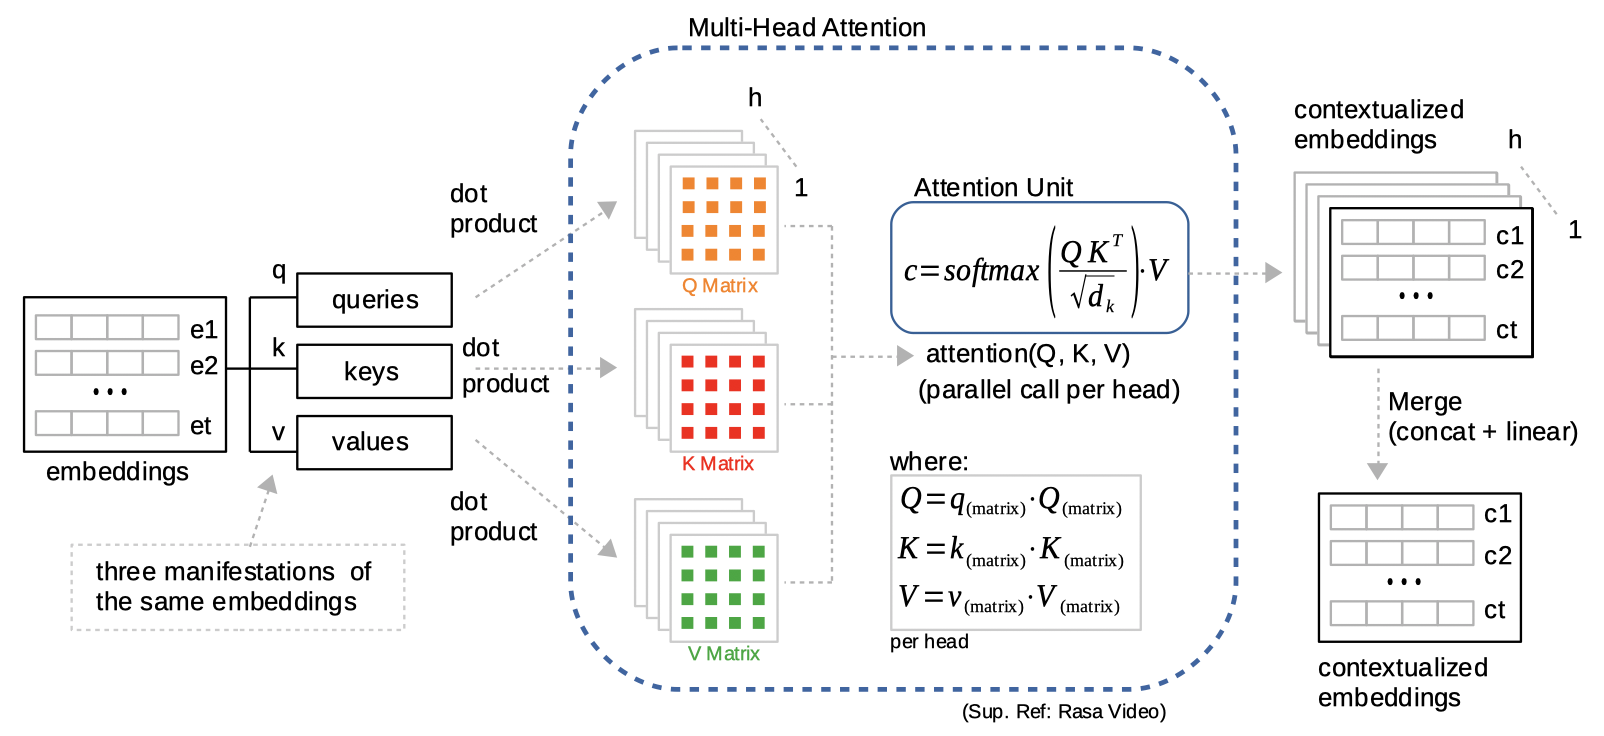
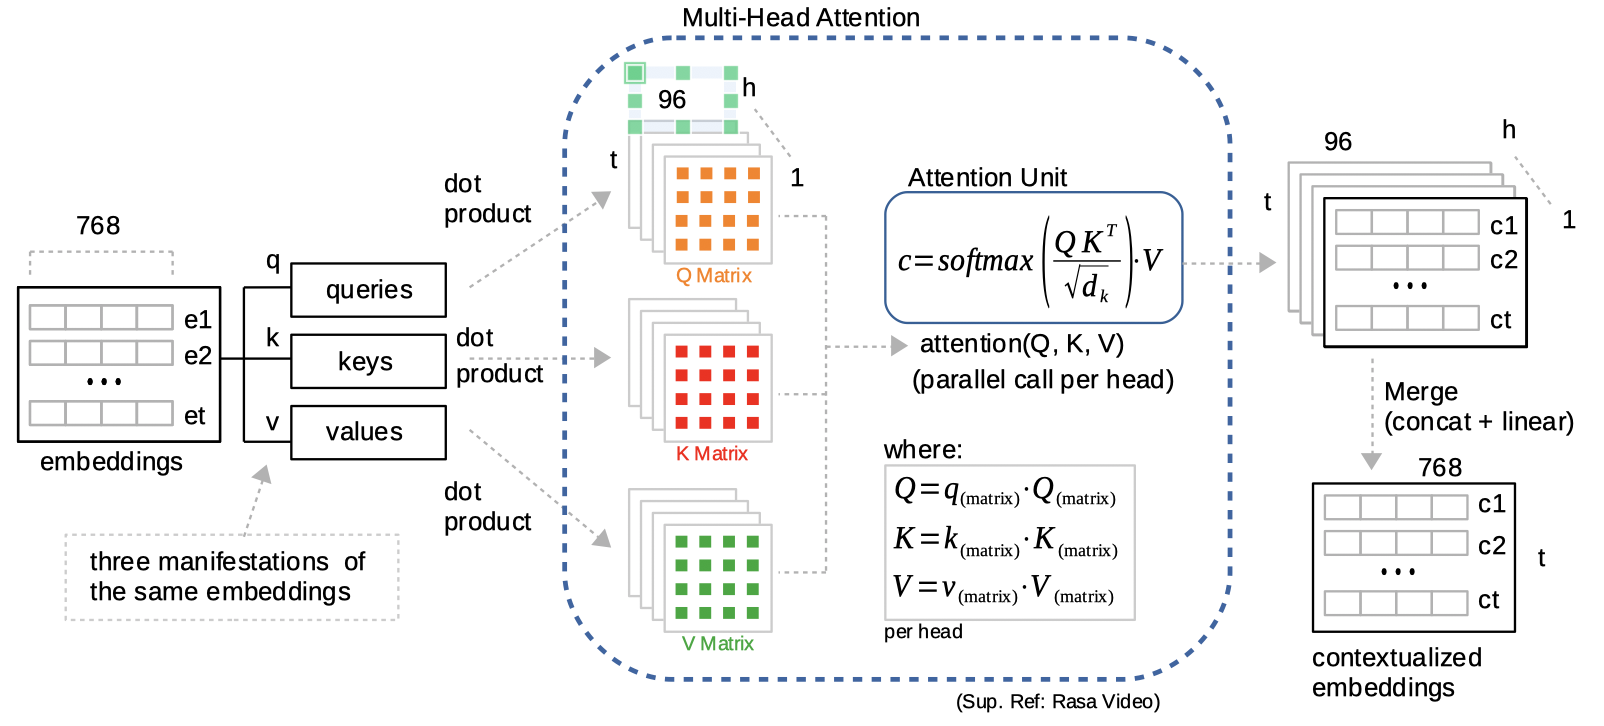
self attention

diff --git a/13.5-transformer-neural-network-tnn.html b/13.5-transformer-neural-network-tnn.html
@@ -913,116 +913,127 @@ Figure 13.21: Attention with Weights
 <p>Based on <strong>Retrieval Information</strong> theory, particularly in <strong>search engine</strong> systems, we supply a query keyword to the engine and expect the engine to respond with a list of relevant documents. In the context of <strong>Self-Attention</strong>, we supply a query keyword in search for <strong>contextual words</strong> in a list of words called <strong>keys</strong>. The idea is to know which of these keys will pay more <strong>attention</strong> to the query. For a better intuition, let us step through the operations.</p>
 <p><strong>First</strong>, for illustration, let us cut the sentence above to only the subject line, <strong>I travel the world</strong>, giving us only about four tokens (or word embeddings). Assume for a moment that our embeddings have five dimensions (dk=5). For now, let us randomly assign some continuous numbers.</p>
 
-<div class="sourceCode" id="cb2141"><pre class="sourceCode r"><code class="sourceCode r"><a class="sourceLine" id="cb2141-1" data-line-number="1"><span class="kw">options</span>(<span class="dt">digits=</span><span class="dv">8</span>)</a>
-<a class="sourceLine" id="cb2141-2" data-line-number="2"><span class="kw">set.seed</span>(<span class="dv">12</span>)</a>
-<a class="sourceLine" id="cb2141-3" data-line-number="3">t    =<span class="st"> </span><span class="dv">4</span>  <span class="co"># number of tokens (embedding)</span></a>
-<a class="sourceLine" id="cb2141-4" data-line-number="4">dk   =<span class="st"> </span><span class="dv">5</span>  <span class="co"># dimension per token</span></a>
-<a class="sourceLine" id="cb2141-5" data-line-number="5">random &lt;-<span class="st"> </span><span class="cf">function</span>(dk) { <span class="kw">round</span>(<span class="kw">runif</span>(<span class="dt">n=</span>dk, <span class="dt">min=</span><span class="fl">0.100</span>, <span class="dt">max=</span><span class="fl">0.900</span>), <span class="dv">3</span>)   }</a>
-<a class="sourceLine" id="cb2141-6" data-line-number="6"><span class="co"># assume hidden states produced by RNN for each word</span></a>
-<a class="sourceLine" id="cb2141-7" data-line-number="7">h1   =<span class="st"> </span><span class="kw">random</span>(dk)  <span class="co"># I       </span></a>
-<a class="sourceLine" id="cb2141-8" data-line-number="8">h2   =<span class="st"> </span><span class="kw">random</span>(dk)  <span class="co"># travel   </span></a>
-<a class="sourceLine" id="cb2141-9" data-line-number="9">h3   =<span class="st"> </span><span class="kw">random</span>(dk)  <span class="co"># the</span></a>
-<a class="sourceLine" id="cb2141-10" data-line-number="10">h4   =<span class="st"> </span><span class="kw">random</span>(dk)  <span class="co"># world </span></a>
-<a class="sourceLine" id="cb2141-11" data-line-number="11">(<span class="dt">h    =</span> <span class="kw">rbind</span>(h1, h2, h3, h4))</a></code></pre></div>
-<pre><code>##     [,1]  [,2]  [,3]  [,4]  [,5]
+<div class="sourceCode" id="cb57"><pre class="sourceCode r"><code class="sourceCode r"><a class="sourceLine" id="cb57-1" data-line-number="1"><span class="kw">options</span>(<span class="dt">digits=</span><span class="dv">8</span>)</a>
+<a class="sourceLine" id="cb57-2" data-line-number="2"><span class="kw">set.seed</span>(<span class="dv">12</span>)</a>
+<a class="sourceLine" id="cb57-3" data-line-number="3">t    =<span class="st"> </span><span class="dv">4</span>  <span class="co"># number of tokens in a sequence</span></a>
+<a class="sourceLine" id="cb57-4" data-line-number="4">dk   =<span class="st"> </span><span class="dv">5</span>  <span class="co"># embedding size</span></a>
+<a class="sourceLine" id="cb57-5" data-line-number="5">random &lt;-<span class="st"> </span><span class="cf">function</span>(dk) { <span class="kw">round</span>(<span class="kw">runif</span>(<span class="dt">n=</span>dk, <span class="dt">min=</span><span class="fl">0.100</span>, <span class="dt">max=</span><span class="fl">0.900</span>), <span class="dv">3</span>)   }</a>
+<a class="sourceLine" id="cb57-6" data-line-number="6"><span class="co"># assume hidden states produced by RNN for each word (tokens)</span></a>
+<a class="sourceLine" id="cb57-7" data-line-number="7">h1   =<span class="st"> </span><span class="kw">random</span>(dk)  <span class="co"># I       </span></a>
+<a class="sourceLine" id="cb57-8" data-line-number="8">h2   =<span class="st"> </span><span class="kw">random</span>(dk)  <span class="co"># travel   </span></a>
+<a class="sourceLine" id="cb57-9" data-line-number="9">h3   =<span class="st"> </span><span class="kw">random</span>(dk)  <span class="co"># the</span></a>
+<a class="sourceLine" id="cb57-10" data-line-number="10">h4   =<span class="st"> </span><span class="kw">random</span>(dk)  <span class="co"># world </span></a>
+<a class="sourceLine" id="cb57-11" data-line-number="11">h    =<span class="st"> </span><span class="kw">rbind</span>(h1, h2, h3, h4); <span class="kw">colnames</span>(h) =<span class="st"> </span><span class="kw">paste0</span>(<span class="st">&quot;e&quot;</span>, <span class="kw">seq</span>(<span class="dv">1</span>,dk)); h</a></code></pre></div>
+<pre><code>##       e1    e2    e3    e4    e5
 ## h1 0.155 0.754 0.854 0.316 0.235
 ## h2 0.127 0.243 0.613 0.118 0.107
 ## h3 0.414 0.751 0.401 0.405 0.312
 ## h4 0.451 0.466 0.533 0.633 0.190</code></pre>
 
-<p><strong>Second</strong>, let us query the keys to obtain scores. Mathematically, we have the following expression, including the normalizer:</p>
-<p><span class="math display" id="eq:equate1150087">\[\begin{align}
-\text{scaled scores} = \frac{(\text{query})\ (\text{keys}^\text{T})} {\sqrt{d_k}}  \tag{13.90} 
+<p><strong>Second</strong>, using <strong>learnable weights</strong>, we first initialize three weight matrices (<strong>Q</strong>, <strong>K</strong>, <strong>V</strong>) using a random uniform distribution. We assume a dimension of (dk x ws) where ws is the weight size. So then, we have the following weight matrices.</p>
+
+<div class="sourceCode" id="cb59"><pre class="sourceCode r"><code class="sourceCode r"><a class="sourceLine" id="cb59-1" data-line-number="1">ws =<span class="st"> </span><span class="dv">3</span> <span class="co"># weight size</span></a>
+<a class="sourceLine" id="cb59-2" data-line-number="2">Q =<span class="st"> </span><span class="kw">matrix</span>(<span class="kw">runif</span>(<span class="dt">n=</span>dk <span class="op">*</span><span class="st"> </span>ws, <span class="dt">min=</span><span class="op">-</span><span class="fl">0.5</span>, <span class="dt">max=</span><span class="fl">0.5</span>), <span class="dt">nrow=</span>dk)</a>
+<a class="sourceLine" id="cb59-3" data-line-number="3">K =<span class="st"> </span><span class="kw">matrix</span>(<span class="kw">runif</span>(<span class="dt">n=</span>dk <span class="op">*</span><span class="st"> </span>ws, <span class="dt">min=</span><span class="op">-</span><span class="fl">0.5</span>, <span class="dt">max=</span><span class="fl">0.5</span>), <span class="dt">nrow=</span>dk)</a>
+<a class="sourceLine" id="cb59-4" data-line-number="4">V =<span class="st"> </span><span class="kw">matrix</span>(<span class="kw">runif</span>(<span class="dt">n=</span>dk <span class="op">*</span><span class="st"> </span>ws, <span class="dt">min=</span><span class="op">-</span><span class="fl">0.5</span>, <span class="dt">max=</span><span class="fl">0.5</span>), <span class="dt">nrow=</span>dk)</a>
+<a class="sourceLine" id="cb59-5" data-line-number="5"><span class="kw">colnames</span>(Q) =<span class="st"> </span><span class="kw">paste0</span>(<span class="st">&quot;w&quot;</span>, <span class="kw">seq</span>(<span class="dv">1</span>,<span class="kw">ncol</span>(Q)))</a>
+<a class="sourceLine" id="cb59-6" data-line-number="6"><span class="kw">rownames</span>(Q) =<span class="st"> </span><span class="kw">paste0</span>(<span class="st">&quot;e&quot;</span>, <span class="kw">seq</span>(<span class="dv">1</span>,<span class="kw">nrow</span>(Q)))</a>
+<a class="sourceLine" id="cb59-7" data-line-number="7">Q <span class="co"># example output of weight Q</span></a></code></pre></div>
+<pre><code>##             w1            w2          w3
+## e1 -0.28163283 -0.2320564070 -0.25911677
+## e2  0.28783635  0.0047679518  0.39326490
+## e3 -0.40214696 -0.3114130732  0.38275639
+## e4  0.20983047 -0.0605706749  0.31406325
+## e5 -0.28217696  0.1698192959  0.13326461</code></pre>
+
+
+<p><strong>Third</strong>, we then apply linear transformation using the weight matrices. Here, we perform <strong>matmul</strong> like so:</p>
+
+<div class="sourceCode" id="cb61"><pre class="sourceCode r"><code class="sourceCode r"><a class="sourceLine" id="cb61-1" data-line-number="1">q =<span class="st"> </span>queries =<span class="st"> </span>h <span class="op">%*%</span><span class="st"> </span>Q</a>
+<a class="sourceLine" id="cb61-2" data-line-number="2">k =<span class="st"> </span>keys    =<span class="st"> </span>h <span class="op">%*%</span><span class="st"> </span>K</a>
+<a class="sourceLine" id="cb61-3" data-line-number="3">v =<span class="st"> </span>values  =<span class="st"> </span>h <span class="op">%*%</span><span class="st"> </span>V</a>
+<a class="sourceLine" id="cb61-4" data-line-number="4">q  <span class="co"># example output of q</span></a></code></pre></div>
+<pre><code>##              w1          w2         w3
+## h1 -0.170063145 -0.27755327 0.71379376
+## h2 -0.217772163 -0.20818544 0.34860398
+## h3 -0.064749699 -0.18891477 0.51032708
+## h4 -0.128019936 -0.27449431 0.49453125</code></pre>
+
+<p><strong>Fourth</strong>, let us query the keys to obtain the scores. Mathematically, we have the following expression, including the normalizer:</p>
+<p><span class="math display">\[\begin{align}
+\text{scaled scores} = \frac{(\text{query})\ (\text{keys}^\text{T})} {\sqrt{d_k}} \tag{13.90}
 \end{align}\]</span></p>
 
-<div class="sourceCode" id="cb2143"><pre class="sourceCode r"><code class="sourceCode r"><a class="sourceLine" id="cb2143-1" data-line-number="1">query  =<span class="st"> </span>keys =<span class="st"> </span>h</a>
-<a class="sourceLine" id="cb2143-2" data-line-number="2">scores =<span class="st"> </span>(query) <span class="op">%*%</span><span class="st"> </span><span class="kw">t</span>(keys)</a>
-<a class="sourceLine" id="cb2143-3" data-line-number="3">scaled.scores =<span class="st"> </span><span class="kw">round</span>(scores <span class="op">/</span><span class="st"> </span><span class="kw">sqrt</span>(dk), <span class="dv">3</span>)</a>
-<a class="sourceLine" id="cb2143-4" data-line-number="4"><span class="kw">colnames</span>(scaled.scores) =<span class="st"> </span><span class="kw">paste0</span>(<span class="st">&quot;q&quot;</span>, <span class="kw">seq</span>(<span class="dv">1</span>,t))</a>
-<a class="sourceLine" id="cb2143-5" data-line-number="5"><span class="kw">rownames</span>(scaled.scores) =<span class="st"> </span><span class="kw">paste0</span>(<span class="st">&quot;s&quot;</span>, <span class="kw">seq</span>(<span class="dv">1</span>,t))</a>
-<a class="sourceLine" id="cb2143-6" data-line-number="6">scaled.scores</a></code></pre></div>
-<pre><code>##       q1    q2    q3    q4
-## s1 0.661 0.353 0.525 0.501
-## s2 0.353 0.213 0.251 0.265
-## s3 0.525 0.251 0.518 0.477
-## s4 0.501 0.265 0.477 0.510</code></pre>
+<div class="sourceCode" id="cb63"><pre class="sourceCode r"><code class="sourceCode r"><a class="sourceLine" id="cb63-1" data-line-number="1">scaled.scores =<span class="st">  </span>queries <span class="op">%*%</span><span class="st"> </span><span class="kw">t</span>(keys) <span class="op">/</span><span class="st"> </span><span class="kw">sqrt</span>(dk) </a>
+<a class="sourceLine" id="cb63-2" data-line-number="2"><span class="kw">colnames</span>(scaled.scores) =<span class="st"> </span><span class="kw">paste0</span>(<span class="st">&quot;k&quot;</span>, <span class="kw">seq</span>(<span class="dv">1</span>,t))</a>
+<a class="sourceLine" id="cb63-3" data-line-number="3"><span class="kw">rownames</span>(scaled.scores) =<span class="st"> </span><span class="kw">paste0</span>(<span class="st">&quot;q&quot;</span>, <span class="kw">seq</span>(<span class="dv">1</span>,t))</a>
+<a class="sourceLine" id="cb63-4" data-line-number="4">scaled.scores</a></code></pre></div>
+<pre><code>##             k1          k2          k3          k4
+## q1 -0.27416595 -0.17894736 -0.21629363 -0.25826375
+## q2 -0.17473743 -0.11493368 -0.13651751 -0.15488645
+## q3 -0.18284601 -0.11927247 -0.14383864 -0.17423977
+## q4 -0.20778714 -0.13678537 -0.16028559 -0.18737410</code></pre>
 
-<p><strong>Third</strong>, we perform softmax for each query like so:</p>
-<p><span class="math display" id="eq:equate1150088">\[\begin{align}
-\alpha_i = \frac{exp(s_i)} {\sum_j^t(exp(s_{i,j}))} \tag{13.91} 
+<p><strong>Fifth</strong>, we then perform softmax against the scaled scores like so:</p>
+<p><span class="math display">\[\begin{align}
+\alpha_i = \frac{exp(s_i)} {\sum_j^t(exp(s_{i,j}))} \tag{13.91}
 \end{align}\]</span></p>
 
-<div class="sourceCode" id="cb2145"><pre class="sourceCode r"><code class="sourceCode r"><a class="sourceLine" id="cb2145-1" data-line-number="1">attention.weights =<span class="st"> </span><span class="kw">softmax</span>(scaled.scores)</a>
-<a class="sourceLine" id="cb2145-2" data-line-number="2"><span class="kw">colnames</span>(attention.weights) =<span class="st"> </span><span class="kw">paste0</span>(<span class="st">&quot;q&quot;</span>, <span class="kw">seq</span>(<span class="dv">1</span>,t))</a>
-<a class="sourceLine" id="cb2145-3" data-line-number="3"><span class="kw">rownames</span>(attention.weights) =<span class="st"> </span><span class="kw">paste0</span>(<span class="st">&quot;w&quot;</span>, <span class="kw">seq</span>(<span class="dv">1</span>,t))</a>
-<a class="sourceLine" id="cb2145-4" data-line-number="4">attention.weights</a></code></pre></div>
-<pre><code>##       q1    q2    q3    q4
-## w1 0.289 0.212 0.252 0.246
-## w2 0.271 0.236 0.245 0.248
-## w3 0.270 0.205 0.268 0.257
-## w4 0.265 0.209 0.259 0.267</code></pre>
+<div class="sourceCode" id="cb65"><pre class="sourceCode r"><code class="sourceCode r"><a class="sourceLine" id="cb65-1" data-line-number="1">attention.weights =<span class="st"> </span><span class="kw">softmax</span>(scaled.scores)</a>
+<a class="sourceLine" id="cb65-2" data-line-number="2"><span class="kw">colnames</span>(attention.weights) =<span class="st"> </span><span class="kw">paste0</span>(<span class="st">&quot;k&quot;</span>, <span class="kw">seq</span>(<span class="dv">1</span>,t))</a>
+<a class="sourceLine" id="cb65-3" data-line-number="3"><span class="kw">rownames</span>(attention.weights) =<span class="st"> </span><span class="kw">paste0</span>(<span class="st">&quot;q&quot;</span>, <span class="kw">seq</span>(<span class="dv">1</span>,t))</a>
+<a class="sourceLine" id="cb65-4" data-line-number="4">attention.weights</a></code></pre></div>
+<pre><code>##            k1         k2         k3         k4
+## q1 0.23949180 0.26341685 0.25376065 0.24333069
+## q2 0.24268091 0.25763690 0.25213569 0.24754650
+## q3 0.24306893 0.25902345 0.25273776 0.24516987
+## q4 0.24137951 0.25914096 0.25312210 0.24635743</code></pre>
 
-<p>So that if we add the softmax scores, we should get a 1 for all attention weights.</p>
-<p><span class="math display" id="eq:equate1150089">\[\begin{align}
-\sum_i^t \left( \alpha_i\right) = 1 \tag{13.92} 
+<p>So that if we add the softmax scores, each query should add up to 1 across the keys.</p>
+<p><span class="math display">\[\begin{align}
+\sum_i^t \left( \alpha_i\right) = 1 \tag{13.92}
 \end{align}\]</span></p>
 
-<div class="sourceCode" id="cb2147"><pre class="sourceCode r"><code class="sourceCode r"><a class="sourceLine" id="cb2147-1" data-line-number="1"><span class="kw">round</span>(<span class="kw">apply</span>(attention.weights, <span class="dv">1</span>, sum), <span class="dv">2</span>)</a></code></pre></div>
-<pre><code>## w1 w2 w3 w4 
+<div class="sourceCode" id="cb67"><pre class="sourceCode r"><code class="sourceCode r"><a class="sourceLine" id="cb67-1" data-line-number="1"><span class="kw">round</span>(<span class="kw">apply</span>(attention.weights, <span class="dv">1</span>, sum), <span class="dv">2</span>)</a></code></pre></div>
+<pre><code>## q1 q2 q3 q4
 ##  1  1  1  1</code></pre>
 
-<p><strong>Finally</strong>, we obtain the contextual embeddings using the below formula per embedding. Alternatively, we can perform matrix multiplication instead.</p>
-<p><span class="math display" id="eq:equate1150090">\[\begin{align}
-c_i = \sum \alpha_i \cdot v_i  \tag{13.93} 
+<p><strong>Finally</strong>, we obtain the contextual embeddings using the below formula. Alternatively, we can perform matrix multiplication instead.</p>
+<p><span class="math display">\[\begin{align}
+c_i = \sum \alpha_i \cdot v_i \tag{13.93}
 \end{align}\]</span></p>
 
-<div class="sourceCode" id="cb2149"><pre class="sourceCode r"><code class="sourceCode r"><a class="sourceLine" id="cb2149-1" data-line-number="1">values =<span class="st"> </span>h</a>
-<a class="sourceLine" id="cb2149-2" data-line-number="2">context =<span class="st"> </span><span class="kw">round</span>(attention.weights <span class="op">%*%</span><span class="st"> </span>(values), <span class="dv">3</span>)</a>
-<a class="sourceLine" id="cb2149-3" data-line-number="3"><span class="kw">colnames</span>(context) =<span class="st"> </span><span class="kw">paste0</span>(<span class="st">&quot;f&quot;</span>, <span class="kw">seq</span>(<span class="dv">1</span>,dk))</a>
-<a class="sourceLine" id="cb2149-4" data-line-number="4"><span class="kw">rownames</span>(context) =<span class="st"> </span><span class="kw">paste0</span>(<span class="st">&quot;c&quot;</span>, <span class="kw">seq</span>(<span class="dv">1</span>,t))</a>
-<a class="sourceLine" id="cb2149-5" data-line-number="5"><span class="kw">t</span>(context)</a></code></pre></div>
-<pre><code>##       c1    c2    c3    c4
-## f1 0.287 0.285 0.295 0.295
-## f2 0.573 0.561 0.574 0.570
-## f3 0.609 0.607 0.601 0.601
-## f4 0.374 0.370 0.381 0.382
-## f5 0.216 0.212 0.218 0.216</code></pre>
+<div class="sourceCode" id="cb69"><pre class="sourceCode r"><code class="sourceCode r"><a class="sourceLine" id="cb69-1" data-line-number="1">context =<span class="st"> </span>attention.weights <span class="op">%*%</span><span class="st"> </span>values</a>
+<a class="sourceLine" id="cb69-2" data-line-number="2"><span class="kw">colnames</span>(context) =<span class="st"> </span><span class="kw">paste0</span>(<span class="st">&quot;w&quot;</span>, <span class="kw">seq</span>(<span class="dv">1</span>,<span class="kw">ncol</span>(context)))</a>
+<a class="sourceLine" id="cb69-3" data-line-number="3"><span class="kw">rownames</span>(context) =<span class="st"> </span><span class="kw">paste0</span>(<span class="st">&quot;c&quot;</span>, <span class="kw">seq</span>(<span class="dv">1</span>,<span class="kw">nrow</span>(context)))</a>
+<a class="sourceLine" id="cb69-4" data-line-number="4">context</a></code></pre></div>
+<pre><code>##             w1         w2         w3
+## c1 -0.20695793 0.32995654 0.29988023
+## c2 -0.20775859 0.33104907 0.30042943
+## c3 -0.20753335 0.33063725 0.30031018
+## c4 -0.20754964 0.33082379 0.30019739</code></pre>
 
-<p>Using <strong>learnable weights</strong>, we first initialize three matrices (<strong>Q</strong>, <strong>K</strong>, <strong>V</strong>) using a random uniform distribution.</p>
+<p>Here, we try to implement our example of an attention function. We go through the same operations as above to get our context using the <strong>query</strong>, <strong>keys</strong>, and <strong>values</strong>.</p>
 
-<div class="sourceCode" id="cb2151"><pre class="sourceCode r"><code class="sourceCode r"><a class="sourceLine" id="cb2151-1" data-line-number="1">Q =<span class="st"> </span><span class="kw">matrix</span>(<span class="kw">runif</span>(<span class="dt">n=</span>dk <span class="op">*</span><span class="st"> </span>dk, <span class="dt">min=</span><span class="op">-</span><span class="fl">0.5</span>, <span class="dt">max=</span><span class="fl">0.5</span>), <span class="dt">nrow=</span>dk)</a>
-<a class="sourceLine" id="cb2151-2" data-line-number="2">K =<span class="st"> </span><span class="kw">matrix</span>(<span class="kw">runif</span>(<span class="dt">n=</span>dk <span class="op">*</span><span class="st"> </span>dk, <span class="dt">min=</span><span class="op">-</span><span class="fl">0.5</span>, <span class="dt">max=</span><span class="fl">0.5</span>), <span class="dt">nrow=</span>dk)</a>
-<a class="sourceLine" id="cb2151-3" data-line-number="3">V =<span class="st"> </span><span class="kw">matrix</span>(<span class="kw">runif</span>(<span class="dt">n=</span>dk <span class="op">*</span><span class="st"> </span>dk, <span class="dt">min=</span><span class="op">-</span><span class="fl">0.5</span>, <span class="dt">max=</span><span class="fl">0.5</span>), <span class="dt">nrow=</span>dk)</a></code></pre></div>
-
-<p>We then multiply <strong>q</strong>, <strong>k</strong>, and <strong>v</strong> embeddings with the corresponding matrix like so (noting that <strong>q</strong>, <strong>k</strong>, and <strong>v</strong> are sourced from <strong>e</strong>):</p>
-
-<div class="sourceCode" id="cb2152"><pre class="sourceCode r"><code class="sourceCode r"><a class="sourceLine" id="cb2152-1" data-line-number="1">q =<span class="st"> </span>k =<span class="st"> </span>v =<span class="st"> </span>h</a>
-<a class="sourceLine" id="cb2152-2" data-line-number="2">query  =<span class="st"> </span>q <span class="op">%*%</span><span class="st"> </span>Q</a>
-<a class="sourceLine" id="cb2152-3" data-line-number="3">keys   =<span class="st"> </span>k <span class="op">%*%</span><span class="st"> </span>K</a>
-<a class="sourceLine" id="cb2152-4" data-line-number="4">values =<span class="st"> </span>v <span class="op">%*%</span><span class="st"> </span>V </a></code></pre></div>
-
-<p>Note that we created <strong>q</strong>, <strong>k</strong>, <strong>v</strong> as three separate instances for demonstration. In actual implementation, we may use <strong>e</strong> for the three computations instead to save memory.</p>
-<p>We go through the same operations as above to get our context using the <strong>query</strong>, <strong>keys</strong>, and <strong>values</strong>. Here, we try to implement our example of an attention function:</p>
-
-<div class="sourceCode" id="cb2153"><pre class="sourceCode r"><code class="sourceCode r"><a class="sourceLine" id="cb2153-1" data-line-number="1">attention.unit &lt;-<span class="st"> </span><span class="cf">function</span>(query, keys, values) {</a>
-<a class="sourceLine" id="cb2153-2" data-line-number="2">   t                 =<span class="st"> </span><span class="kw">ncol</span>(query) <span class="co"># t-tokens</span></a>
-<a class="sourceLine" id="cb2153-3" data-line-number="3">   dk                =<span class="st"> </span><span class="kw">nrow</span>(query) <span class="co"># k-dimension </span></a>
-<a class="sourceLine" id="cb2153-4" data-line-number="4">   scores            =<span class="st"> </span><span class="kw">t</span>(query) <span class="op">%*%</span><span class="st"> </span>keys  </a>
-<a class="sourceLine" id="cb2153-5" data-line-number="5">   scaled.scores     =<span class="st"> </span>scores <span class="op">/</span><span class="st"> </span><span class="kw">sqrt</span>(dk)       <span class="co"># scaled</span></a>
-<a class="sourceLine" id="cb2153-6" data-line-number="6">   attention.weights =<span class="st"> </span><span class="kw">softmax</span>(scaled.scores) <span class="co"># column-wise </span></a>
-<a class="sourceLine" id="cb2153-7" data-line-number="7">   context           =<span class="st"> </span><span class="kw">round</span>(attention.weights <span class="op">%*%</span><span class="st"> </span><span class="kw">t</span>(values), <span class="dv">3</span>)</a>
-<a class="sourceLine" id="cb2153-8" data-line-number="8">   <span class="kw">colnames</span>(context) =<span class="st"> </span><span class="kw">paste0</span>(<span class="st">&quot;f&quot;</span>, <span class="kw">seq</span>(<span class="dv">1</span>,dk))</a>
-<a class="sourceLine" id="cb2153-9" data-line-number="9">   <span class="kw">rownames</span>(context) =<span class="st"> </span><span class="kw">paste0</span>(<span class="st">&quot;c&quot;</span>, <span class="kw">seq</span>(<span class="dv">1</span>,t))</a>
-<a class="sourceLine" id="cb2153-10" data-line-number="10">   <span class="kw">t</span>(context) <span class="co"># transpose</span></a>
-<a class="sourceLine" id="cb2153-11" data-line-number="11">}</a>
-<a class="sourceLine" id="cb2153-12" data-line-number="12"><span class="kw">attention.unit</span>(query, keys, values)</a></code></pre></div>
-<pre><code>##        c1     c2     c3     c4     c5
-## f1 -0.032 -0.026 -0.075 -0.067 -0.063
-## f2 -0.010 -0.006 -0.031 -0.027 -0.024
-## f3 -0.035 -0.029 -0.079 -0.069 -0.066
-## f4 -0.086 -0.081 -0.123 -0.115 -0.111</code></pre>
+<div class="sourceCode" id="cb71"><pre class="sourceCode r"><code class="sourceCode r"><a class="sourceLine" id="cb71-1" data-line-number="1">attention.unit &lt;-<span class="st"> </span><span class="cf">function</span>(query, keys, values) {</a>
+<a class="sourceLine" id="cb71-2" data-line-number="2">   dk                =<span class="st"> </span><span class="kw">nrow</span>(query) <span class="co"># embedding size</span></a>
+<a class="sourceLine" id="cb71-3" data-line-number="3">   scores            =<span class="st"> </span>query <span class="op">%*%</span><span class="st"> </span><span class="kw">t</span>(keys)  </a>
+<a class="sourceLine" id="cb71-4" data-line-number="4">   scaled.scores     =<span class="st"> </span>scores <span class="op">/</span><span class="st"> </span><span class="kw">sqrt</span>(dk)       <span class="co"># scaled</span></a>
+<a class="sourceLine" id="cb71-5" data-line-number="5">   attention.weights =<span class="st"> </span><span class="kw">softmax</span>(scaled.scores) <span class="co"># column-wise </span></a>
+<a class="sourceLine" id="cb71-6" data-line-number="6">   context           =<span class="st"> </span>attention.weights <span class="op">%*%</span><span class="st"> </span>values</a>
+<a class="sourceLine" id="cb71-7" data-line-number="7">   <span class="kw">colnames</span>(context) =<span class="st"> </span><span class="kw">paste0</span>(<span class="st">&quot;w&quot;</span>, <span class="kw">seq</span>(<span class="dv">1</span>,<span class="kw">ncol</span>(context)))</a>
+<a class="sourceLine" id="cb71-8" data-line-number="8">   <span class="kw">rownames</span>(context) =<span class="st"> </span><span class="kw">paste0</span>(<span class="st">&quot;c&quot;</span>, <span class="kw">seq</span>(<span class="dv">1</span>,<span class="kw">nrow</span>(context)))</a>
+<a class="sourceLine" id="cb71-9" data-line-number="9">   context</a>
+<a class="sourceLine" id="cb71-10" data-line-number="10">}</a>
+<a class="sourceLine" id="cb71-11" data-line-number="11"><span class="kw">attention.unit</span>(queries, keys, values)</a></code></pre></div>
+<pre><code>##             w1         w2         w3
+## c1 -0.20674462 0.32969783 0.29971914
+## c2 -0.20764181 0.33092346 0.30033211
+## c3 -0.20738962 0.33046266 0.30019875
+## c4 -0.20740784 0.33067070 0.30007298</code></pre>
 
 <p>We should note that the context produced by our attention function is still raw because we relied on the initial values of the <strong>learnable weights</strong>. Similar to our discussion on <strong>MLP</strong> and other types of networks, we need to plug the attention unit into a neural network to allow gradients to flow through the attention layer through <strong>backpropagation</strong>. We will discuss this further once we get to the <strong>Transformer</strong> architecture.</p>
+
 </div>
 <div id="multi-head-attention" class="section level3 hasAnchor">
 <h3><span class="header-section-number">13.5.3</span> Multi-Head Attention <a href="13.5-transformer-neural-network-tnn.html#multi-head-attention" class="anchor-section" aria-label="Anchor link to header"></a></h3>
@@ -1043,50 +1054,16 @@ Figure 13.22: Multi-Head Attention
 \mathbf{\text{aspect 3}} &amp;\rightarrow\ \text{fountain of youth} &amp; \ \ \ \ (\text{magical context})
 \end{array}
 \]</span></p>
-<p>Depending on computational resources, we may increase the <strong>attention heads</strong> to allow each token to focus on and attend to different aspects of an input sequence.  Each head uses a set of <strong>Q</strong>, <strong>K</strong>, and <strong>V</strong> matrices containing learned parameters to attend to a different aspect.</p>
-<p>In terms of computation, notice in the figure that each of the three instances of the embedding, namely <strong>q</strong>, <strong>k</strong>, and <strong>v</strong>, runs through matrix multiplication with each corresponding matrix. Because we are dealing with three attention heads for the three contexts in our example above, it means that <strong>q</strong> gets multiplied with <strong>Q1</strong>, <strong>Q2</strong>, and <strong>Q3</strong> matrices, resulting in three <strong>score matrices</strong>. Similarly, <strong>k</strong> gets multiplied with <strong>K1</strong>, <strong>K2</strong>, and <strong>K3</strong> matrices, resulting in three <strong>score matrices</strong>. The same applies to <strong>v</strong>. Next, the scores are scaled using a normalizer, e.g., <span class="math inline">\(\sqrt{d_k}\)</span>, followed by <strong>softmax</strong> to derive the attention weights - or attention probabilities. The final context is obtained by performing another matrix multiplication between the output of the <strong>softmax</strong> and the output of the score matrices from <strong>v</strong> and the three <strong>V</strong> matrices. For example, in the multi-head attention, the softmax accepts the following input:</p>
-<p><span class="math display" id="eq:equate1150091">\[\begin{align}
-\text{attention}(Q,K,V) = \text{softmax}\left(\frac{QK^\text{T}}{\sqrt{d_k}}\right)\cdot V  \tag{13.94} 
+
+<p>There could be more aspects, however, which hopefully can be represented in the input embeddings. Depending on computational resources, we may increase the attention heads to allow each token to focus on and attend to different aspects of an input sequence. Each head uses a set of <strong>Q</strong>, <strong>K</strong>, and <strong>V</strong> matrices containing learned parameters to attend to different aspects. We then apply the same attention unit function such as:</p>
+<p><span class="math display">\[\begin{align}
+\text{attention}(Q,K,V) = \text{softmax}\left(\frac{QK^\text{T}}{\sqrt{d_k}}\right)\cdot V \tag{13.94}
 \end{align}\]</span></p>
-<p>To give an example of how we use <strong>Multi-head Attention</strong>, suppose we have the number of heads equal to 5. Let us randomly initialize the <strong>Q</strong>, <strong>K</strong>, and <strong>V</strong> tensors, noting that the tensors have dimension <span class="math inline">\((k \times k \times h)\)</span>:</p>
 
-<div class="sourceCode" id="cb2155"><pre class="sourceCode r"><code class="sourceCode r"><a class="sourceLine" id="cb2155-1" data-line-number="1">h =<span class="st"> </span><span class="dv">5</span>;  t =<span class="st"> </span><span class="dv">4</span> <span class="co"># here, h equals no. of heads, t equals no. of tokens</span></a>
-<a class="sourceLine" id="cb2155-2" data-line-number="2">Q =<span class="st"> </span><span class="kw">array</span>(<span class="kw">runif</span>(<span class="dt">n=</span>dk <span class="op">*</span><span class="st"> </span>dk, <span class="dt">min=</span><span class="op">-</span><span class="fl">0.5</span>, <span class="dt">max=</span><span class="fl">0.5</span>), <span class="kw">c</span>(dk, dk, h))</a>
-<a class="sourceLine" id="cb2155-3" data-line-number="3">K =<span class="st"> </span><span class="kw">array</span>(<span class="kw">runif</span>(<span class="dt">n=</span>dk <span class="op">*</span><span class="st"> </span>dk, <span class="dt">min=</span><span class="op">-</span><span class="fl">0.5</span>, <span class="dt">max=</span><span class="fl">0.5</span>), <span class="kw">c</span>(dk, dk, h))</a>
-<a class="sourceLine" id="cb2155-4" data-line-number="4">V =<span class="st"> </span><span class="kw">array</span>(<span class="kw">runif</span>(<span class="dt">n=</span>dk <span class="op">*</span><span class="st"> </span>dk, <span class="dt">min=</span><span class="op">-</span><span class="fl">0.5</span>, <span class="dt">max=</span><span class="fl">0.5</span>), <span class="kw">c</span>(dk, dk, h))</a>
-<a class="sourceLine" id="cb2155-5" data-line-number="5">K[,,<span class="dv">1</span>]  <span class="co"># display an initialized K matrix for the first head.</span></a></code></pre></div>
-<pre><code>##            [,1]        [,2]        [,3]        [,4]
-## [1,] 0.15782952 0.158294656  0.30144395 0.389498414
-## [2,] 0.38407710 0.078136669 -0.28551430 0.334255804
-## [3,] 0.33999093 0.155190383  0.47465562 0.140585024
-## [4,] 0.44216319 0.297951073 -0.32631462 0.373908170
-## [5,] 0.30393706 0.069033058 -0.48419310 0.094678544
-##             [,5]
-## [1,] -0.20034764
-## [2,]  0.34011628
-## [3,]  0.09883009
-## [4,]  0.21031208
-## [5,] -0.16618633</code></pre>
+<p>
+In terms of computation, suppose that our input sequence has 11 tokens (<strong>t</strong>) and that the chosen size of the embeddings is 768 (<strong>d_model</strong>).  If we decide to use eight attention heads, that means that we divide the embedding size by eight heads, e.g., 768 / 8 = 96  (<span class="math inline">\(\mathbf{d_k}\)</span>).  We follow the same steps as enumerated in the self-attention section for each head.  We go through a linear transformation with three weight matrices per head, namely <strong>Q</strong>, <strong>K</strong>, and <strong>V</strong>, having the same <span class="math inline">\(\mathbf{d_k}\)</span> x <strong>ws</strong> dimensions but initialized randomly, resulting in three <strong>score matrices</strong>, namely <strong>q</strong>, <strong>k</strong>, and <strong>v</strong> of <strong>t</strong> x <strong>ws</strong> dimension. Next, we perform dot product between <strong>q</strong> and <strong>k</strong>, resulting in a matrix of <strong>t</strong> x <strong>t</strong> dimension.  We then scale the result using a normalizer, e.g., <span class="math inline">\(\sqrt{\mathbf{d_k}}\)</span>, followed by <strong>softmax</strong> to derive the attention weights.  We follow this by performing a matmul between the matrix and <strong>v</strong> matrix, resulting in an output matrix of <strong>t</strong> x <strong>ws</strong> dimension.  Given that we have eight heads, we concatenate the eight output matrices, resulting in a matrix of <strong>t</strong> x (<strong>ws</strong> * <strong>heads</strong>) dimension.  From there, we apply a linear transformation with another weight, call it <span class="math inline">\(\mathbf{W_o}\)</span>, of (<strong>ws</strong> * <strong>heads</strong>) x <strong>d_model</strong> dimension.  This results in the final multi-head attention output of <strong>t</strong> x <strong>d_model</strong> dimension similar to the dimension of the input.</p>
 
-<p>We then multiply <strong>q</strong>, <strong>k</strong>, and <strong>v</strong> embeddings with the corresponding matrix like so (noting that <strong>q</strong>, <strong>k</strong>, and <strong>v</strong> are sourced from <strong>e</strong>:</p>
-
-<div class="sourceCode" id="cb2157"><pre class="sourceCode r"><code class="sourceCode r"><a class="sourceLine" id="cb2157-1" data-line-number="1">query =<span class="st"> </span>keys =<span class="st"> </span>values =<span class="st"> </span><span class="kw">array</span>(<span class="dv">0</span>, <span class="kw">c</span>(dk, t, h)) <span class="co"># create the q,k,v structures</span></a>
-<a class="sourceLine" id="cb2157-2" data-line-number="2"><span class="cf">for</span> (i <span class="cf">in</span> <span class="dv">1</span><span class="op">:</span>h) {</a>
-<a class="sourceLine" id="cb2157-3" data-line-number="3">  query[,,i]  =<span class="st"> </span>q <span class="op">%*%</span><span class="st"> </span>Q[,,i]</a>
-<a class="sourceLine" id="cb2157-4" data-line-number="4">  keys[,,i]   =<span class="st"> </span>k <span class="op">%*%</span><span class="st"> </span>K[,,i]</a>
-<a class="sourceLine" id="cb2157-5" data-line-number="5">  values[,,i] =<span class="st"> </span>v <span class="op">%*%</span><span class="st"> </span>V[,,i] </a>
-<a class="sourceLine" id="cb2157-6" data-line-number="6">}</a></code></pre></div>
-
-<p>Let us now invoke our <strong>attention.unit</strong> function.</p>
-
-<div class="sourceCode" id="cb2158"><pre class="sourceCode r"><code class="sourceCode r"><a class="sourceLine" id="cb2158-1" data-line-number="1"><span class="kw">options</span>(<span class="dt">width=</span><span class="dv">56</span>)</a>
-<a class="sourceLine" id="cb2158-2" data-line-number="2">contextualized =<span class="st"> </span><span class="kw">array</span>(<span class="dv">0</span>, <span class="kw">c</span>(dk, t, h)) </a>
-<a class="sourceLine" id="cb2158-3" data-line-number="3"><span class="cf">for</span>(i <span class="cf">in</span> <span class="dv">1</span><span class="op">:</span>h) {</a>
-<a class="sourceLine" id="cb2158-4" data-line-number="4">   contextualized[,,i] =<span class="st"> </span><span class="kw">attention.unit</span>(query[,,i], keys[,,i], values[,,i])</a>
-<a class="sourceLine" id="cb2158-5" data-line-number="5">}</a></code></pre></div>
-<p>The dimension is [5, 4, 5].</p>
-
-<p>Note that the output of the multi-head attention is a list of <strong>contextualized</strong> matrices. The list has a size equal to the number of heads. To obtain only one <strong>contextualized matrix</strong> with the same dimension as the original embedding, we need to merge the list. The <strong>merging</strong> approach is to concatenate and then run through a linear layer, reshaping it into the original size before feeding it to the next layer higher up  the stack.</p>
+<p>Note that the output of the multi-head attention is a list of <strong>contextualized</strong> matrices. The list has a size equal to the number of heads. To obtain only one <strong>contextualized matrix</strong> with the same dimension as the original embedding, we need to merge the list. The <strong>merging</strong> approach is to concatenate and then run through a linear layer, reshaping it into the original size before feeding it to the next layer higher up the stack.</p>
 <p><strong>Multihead Attention</strong> is seen in the paper by Ashish Vaswani et al. <span class="citation">(<a href="bibliography.html#ref-ref1339a">2017</a>)</span>. It is used as one of the core components of a novel <strong>Attention-based</strong> architecture called <strong>Transformer</strong>.</p>
 <p>Before we jump to <strong>Transformers</strong>, let us discuss a few essential topics, focusing on <strong>sequence-to-sequence</strong> applications. Among many others, we need to build our intuition around the following topics:</p>
 <ul>
@@ -1094,6 +1071,7 @@ Figure 13.22: Multi-Head Attention
 <li><strong>Positional Embedding</strong> - numerical representation of the position of sequence elements, and</li>
 <li><strong>Sequence Alignment</strong> - alignment between sequences if we are to translate one sequence to another.</li>
 </ul>
+
 </div>
 <div id="word-embedding" class="section level3 hasAnchor">
 <h3><span class="header-section-number">13.5.4</span> Word Embedding <a href="13.5-transformer-neural-network-tnn.html#word-embedding" class="anchor-section" aria-label="Anchor link to header"></a></h3>
